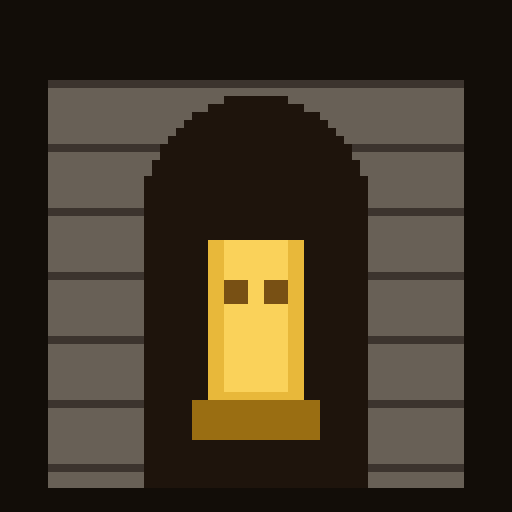
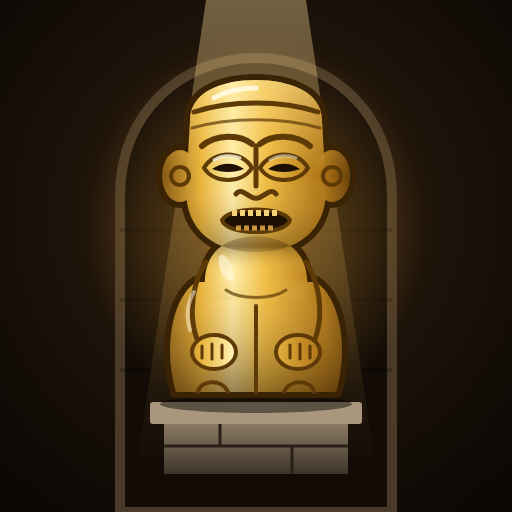
Nuevo ícono: un ídolo dorado agazapado en su nicho de piedra
Reemplaza el ícono pixelado por un ídolo de oro dibujado en SVG
(iconos/idolo.svg), con orejeras, ojos almendrados, mueca con dientes y un
haz de luz sobre el pedestal. Los PNG de 192 y 512 se generan desde ese SVG,
que también sirve de favicon. Sube la caché del service worker a v16.

Claude-Session: https://claude.ai/code/session_01Uf1f7pF59VovgxBZrJWdEU

diff --git a/sw.js b/sw.js
@@ -1,13 +1,13 @@
 // Guarda los archivos del juego para jugar sin conexión.
 // Pide primero la versión nueva a la red y, si no hay conexión, usa la copia guardada.
 // Si agregas un archivo que el juego necesita, añádelo a ARCHIVOS y sube el número de CACHE.
-const CACHE = 'reliquias-v15';
+const CACHE = 'reliquias-v16';
 const ARCHIVOS = [
   './', 'index.html', 'css/estilo.css', 'manifest.webmanifest',
   'js/main.js', 'js/render.js', 'js/texturas.js', 'js/mapa.js', 'js/juego.js', 'js/entrada.js',
   'js/arma.js', 'js/audio.js', 'js/acertijos.js', 'js/automapa.js', 'js/laberinto.js', 'js/escena.js',
   'datos/mazmorras.js', 'datos/tesoros.js', 'datos/pistas.js',
-  'iconos/icono-192.png', 'iconos/icono-512.png',
+  'iconos/icono-192.png', 'iconos/icono-512.png', 'iconos/idolo.svg',
 ];
 
 self.addEventListener('install', e => {

diff --git a/index.html b/index.html
@@ -10,7 +10,8 @@
 <meta name="mobile-web-app-capable" content="yes">
 <meta name="apple-mobile-web-app-status-bar-style" content="black-translucent">
 <link rel="manifest" href="manifest.webmanifest">
-<link rel="icon" href="iconos/icono-192.png">
+<link rel="icon" href="iconos/idolo.svg" type="image/svg+xml">
+<link rel="icon" href="iconos/icono-192.png" type="image/png">
 <link rel="apple-touch-icon" href="iconos/icono-192.png">
 <link rel="preconnect" href="https://fonts.googleapis.com">
 <link rel="preconnect" href="https://fonts.gstatic.com" crossorigin>
